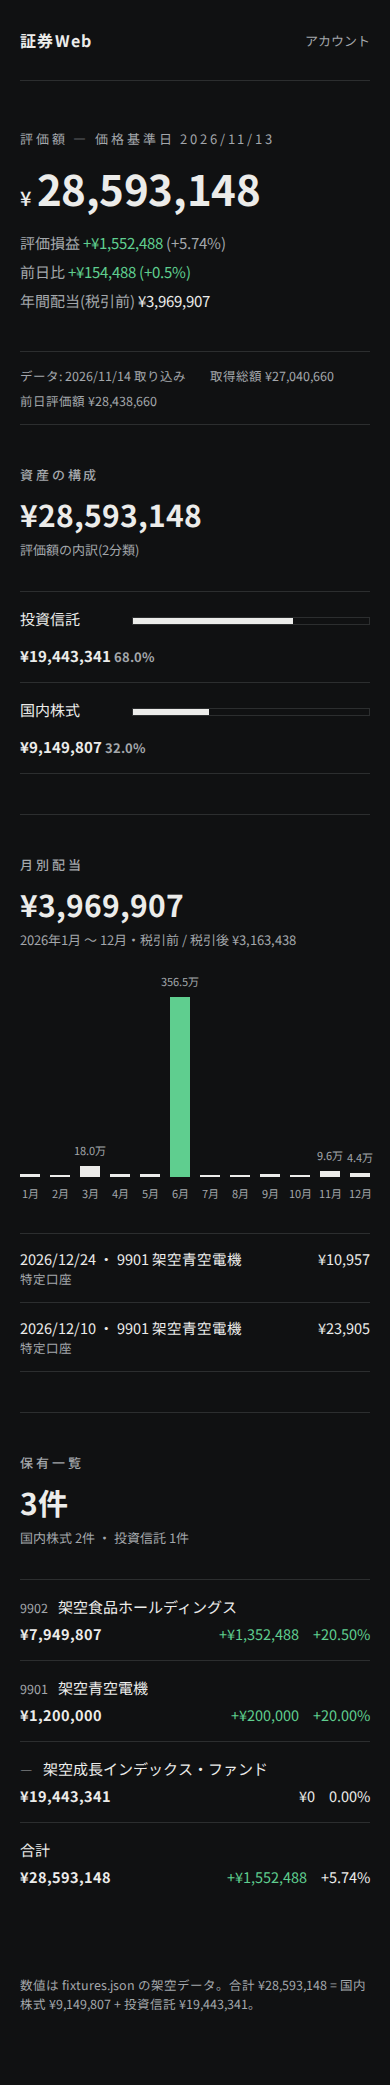
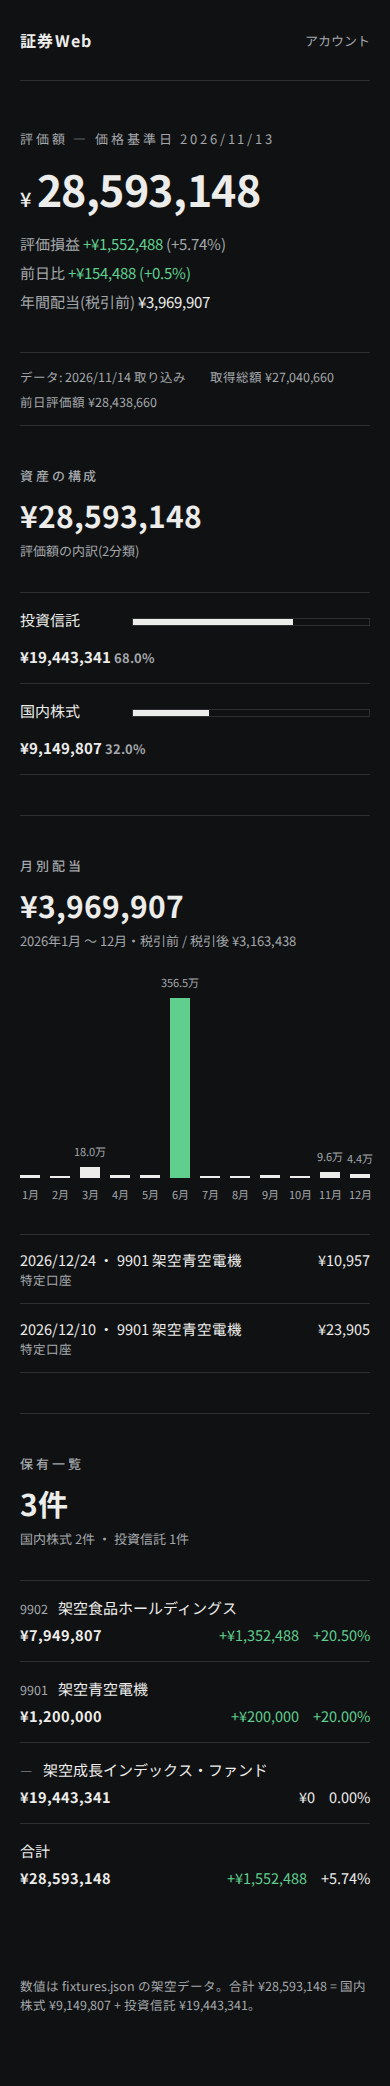
design: fix mobile clamp override + remove header summaries (idea1-3)
- idea1/idea3: remove fixed .hero .total (42px/40px), keep clamp
- idea2: remove trailing .band .v 22px override, keep clamp
- remove 3-line header summaries from 3 html (in README already)
- retake mobile shots; verified 390/320 no wrap

diff --git a/docs/design/work/phase8-visual/idea3-cards.html b/docs/design/work/phase8-visual/idea3-cards.html
@@ -1,8 +1,4 @@
 <!doctype html>
-<!-- 現行ホーム(before/current-home-*.png)からの変更3点:
-  1. 紺の帯をやめ淡い緑地+白カードにし、評価額・損益・配当を分けて置いた
-  2. ドーナツと月別棒を大きくし、予想・達成率や口座別バーをなくした
-  3. 保有一覧を銘柄ごとの行にし、評価額を右に大きく出した -->
 <html lang="ja">
 <head>
 <meta charset="utf-8">
@@ -46,7 +42,7 @@ html[data-theme="dark"] .top .tabs .here{color:#101511}
 .hero .cell .v{font-size:22px; font-weight:700}
 .hero .cell .s{font-size:12.5px; color:var(--muted); margin-top:4px}
 .up{color:var(--up)} .down{color:var(--down)}
-@media(max-width:860px){ .hero{grid-template-columns:1fr; padding:28px 22px} .hero .total{font-size:40px} }
+@media(max-width:860px){ .hero{grid-template-columns:1fr; padding:28px 22px} }
 h2.sec{font-size:15px; margin:32px 0 12px; display:flex; align-items:center; gap:10px}
 h2.sec::before{content:""; width:10px; height:10px; border-radius:3px; background:var(--green)}
 .grid2{display:grid; grid-template-columns:5fr 7fr; gap:16px}

diff --git a/docs/design/work/phase8-visual/idea1-minimal.html b/docs/design/work/phase8-visual/idea1-minimal.html
@@ -1,8 +1,4 @@
 <!doctype html>
-<!-- 現行ホーム(before/current-home-*.png)からの変更3点:
-  1. 紺の3分割集計帯をやめ、白地に評価額1点だけを大きく置いた
-  2. 配当グラフを「予想vs実績・達成率」から「12か月の実績のみ」の細棒に変えた
-  3. 口座別バーと銘柄リストをなくし、構成→月別→保有を線区切りで一直線に並べた -->
 <html lang="ja">
 <head>
 <meta charset="utf-8">
@@ -81,7 +77,6 @@ table.hold td .code{color:var(--muted); font-size:12.5px; margin-right:10px}
   .wrap{padding:0 20px 72px}
   .m-col .m{font-size:11px; white-space:nowrap}
   .hero{padding:48px 0 40px}
-  .hero .total{font-size:42px}
   section.block{padding:40px 0}
   /* 保有一覧: 表をやめて銘柄ごとの2段(コード+名前 / 評価額・損益・損益率) */
   table.hold thead{display:none}

diff --git a/docs/design/work/phase8-visual/idea2-finance.html b/docs/design/work/phase8-visual/idea2-finance.html
@@ -1,8 +1,4 @@
 <!doctype html>
-<!-- 現行ホーム(before/current-home-*.png)からの変更3点:
-  1. 紺の帯は残し、金額を右そろえの表にして内訳列で検算できる形にした
-  2. 配当は12か月バー+主要月だけの表に集約し、予想・達成率をなくした
-  3. 保有一覧に合計行を付け、口座別バーは削った -->
 <html lang="ja">
 <head>
 <meta charset="utf-8">
@@ -94,7 +90,6 @@ td.num, td .n{font-weight:500}
   .band .inner{padding:0 12px}
   .band .cell{flex:1 1 45%; padding:8px 12px 8px 0; border-left:none; border-top:1px solid rgba(255,255,255,.18)}
   .band .cell:first-child{border-top:none}
-  .band .v{font-size:22px}
   .hide-m{display:none}
 }
 </style>

diff --git a/docs/design/work/phase8-visual/README.md b/docs/design/work/phase8-visual/README.md
@@ -24,7 +24,7 @@ Phase 5 の見本に対し「全体の雰囲気・見た目が悪い」との判
 
 共通: Noto Sans JP(Google Fonts、落ちたらシステムフォント)、数字は tabular-nums。紫〜青グラデ・クリーム+セリフ・全面角丸+影・絵文字見出しは使わない。各 html は1ファイルで PC/スマホ両対応、`?theme=light|dark` と `prefers-color-scheme` でライト/ダーク切替。撮影は `tools/shoot.py`(Playwright、PC 1440px・スマホ 390px × ライト・ダークの full-page)。
 
-現行のホーム(`before/current-home-*.png` = phase1-opencode の現行アプリ撮影。紺の3分割集計帯、予想vs実績・達成率つき配当グラフ、口座別バー)との比べどころは各案の節と各 html 冒頭のコメントに3点ずつ書いた。
+現行のホーム(`before/current-home-*.png` = phase1-opencode の現行アプリ撮影。紺の3分割集計帯、予想vs実績・達成率つき配当グラフ、口座別バー)との比べどころは各案の節に3点ずつ書いた。
 
 ## スマホ集計帯の改行対応
 
@@ -51,7 +51,7 @@ Phase 5 の見本に対し「全体の雰囲気・見た目が悪い」との判
 ## 案4 シンプル(`idea4-simple.html`)
 
 3案への指摘(すらすら読めない・数字と色がガタガタ)を受け、1案に絞った作り直し。上記8規則のとおり: 縦1列・全セクション同型・全明細同行型・金額右端一本線・黒灰+緑赤+緑濃淡のみ・Noto Sans JP 400/700。
-現行からの変更は冒頭「現行の画面から変わった点」3点のとおり。各 html 冒頭のコメントにも同じ3点を記載。
+現行からの変更は冒頭「現行の画面から変わった点」3点のとおり。
 
 ## ファイル
 
